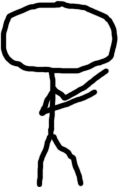
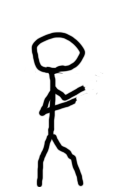
add punch animation

Changed region(s): [[0.0, 0.0, 1.0, 0.5615]]

diff --git a/fighter.py b/fighter.py
@@ -10,9 +10,13 @@ class Fighter(pygame.sprite.Sprite):
         self.color = pygame.Color(200, 0, 0, 255)
         self.sprite_map = SpriteMap('gfx/fighter.json')
         self.rect = pygame.Rect(0, 0, 128, 256)
+        self.sprite = 'still'
+
+        self.punching = False
+        self.anim_frame = 0
 
     def render(self, surface):
-        surface.blit(self.sprite_map.image(), self.rect, area=self.sprite_map.sprite_rect('still'))
+        surface.blit(self.sprite_map.image(), self.rect, area=self.sprite_map.sprite_rect(self.sprite))
 
     def update(self):
         dy = 60 
@@ -25,3 +29,18 @@ class Fighter(pygame.sprite.Sprite):
             else:
                 dy = 0
         self.rect = self.rect.move(0, dy)
+
+        if self.punching:
+            if self.anim_frame == 0:
+                self.sprite = 'punch02'
+            elif self.anim_frame == 2:
+                self.sprite = 'punch03'
+            elif self.anim_frame >= 6:
+                self.sprite = 'still'
+                self.punching = False
+        
+        self.anim_frame += 1
+
+    def punch(self):
+        self.punching = True
+        self.anim_frame = 0

diff --git a/game.py b/game.py
@@ -21,6 +21,8 @@ class Game:
             self.world.offset = (self.world.offset[0] + 10, self.world.offset[1])
         elif e.unicode == 'a':
             self.world.offset = (self.world.offset[0] - 10, self.world.offset[1])
+        elif e.unicode == 'j':
+            self.fighter1.punch()
         elif e.unicode == 'q':
             sys.exit()
 
